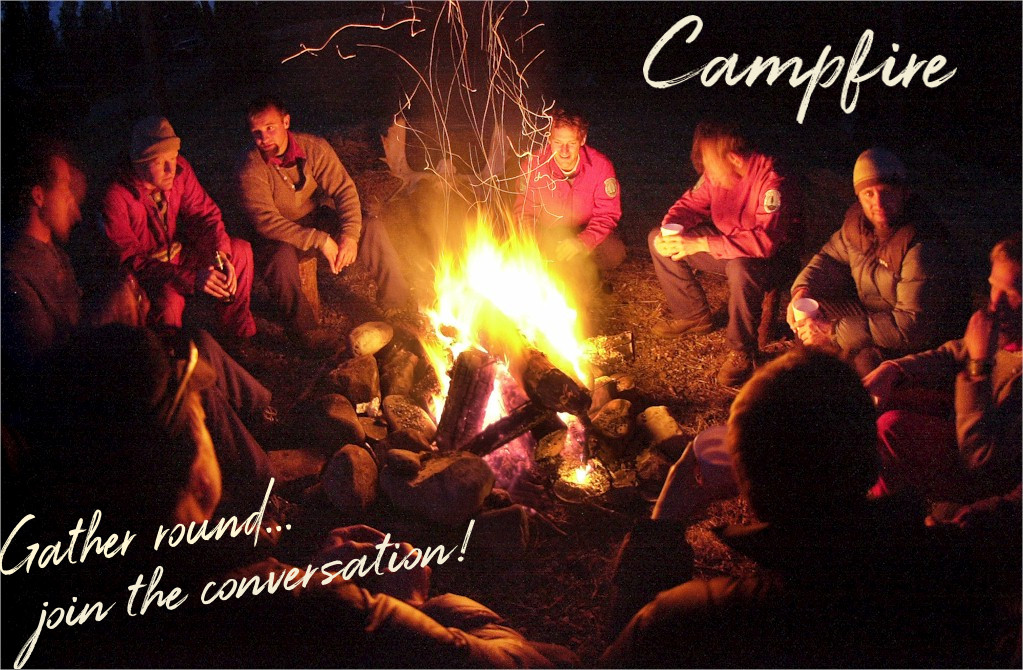
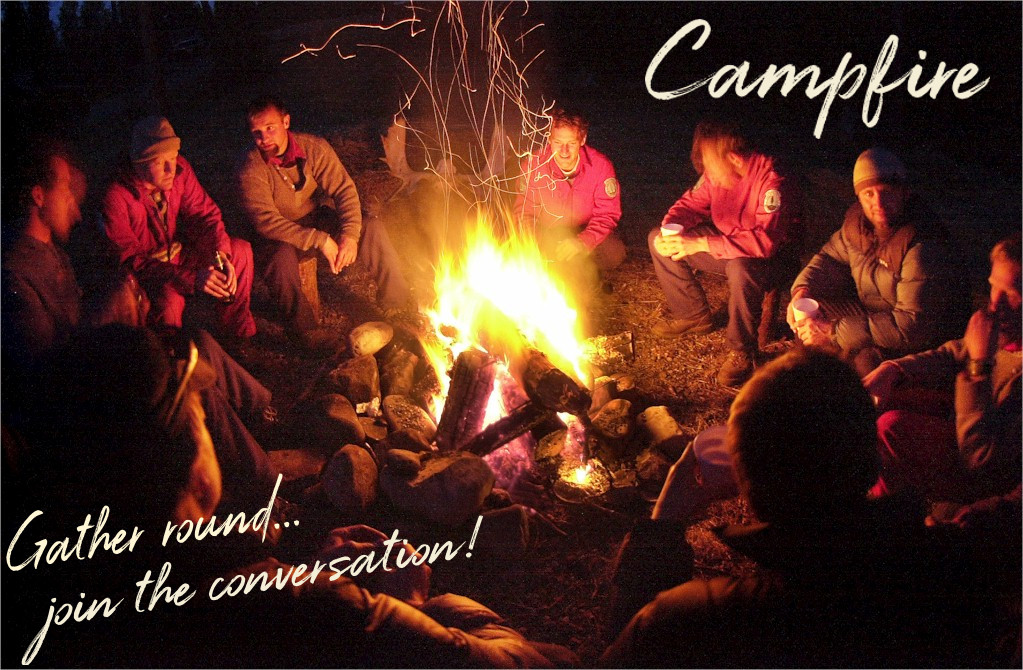
correct home page images and text; build campfire table

Changed region(s): [[0.0, 0.7164, 0.4848, 1.0], [0.6061, 0.0, 0.9697, 0.209]]

diff --git a/MountainBound/wwwroot/CSS/SiteStyles.css b/MountainBound/wwwroot/CSS/SiteStyles.css
@@ -1,22 +1,25 @@
 body {
-      background: url("/images/mountainrange1.jpg") no-repeat top #eee;
-      background-size: cover;
-      height: 100%;
-    background-attachment:fixed;
-              
-
-          }
+    background: url("/images/mountainrange1.jpg") no-repeat top #eee;
+    background-size: cover;
+    height: 100%;
+    background-attachment: fixed;
+    font-family: 'Roboto', sans-serif;
+}
 .content {
     width: 70%;
     position: relative;
-    min-height: 90vh;
+    min-height: 86vh;
     background-color: #fff;
-    margin: -2% auto 0 auto;
-    z-index: -1;
+    margin: 0 auto 0 auto;
+    z-index: 0;
     padding: 4% 2% .5em 2%;
     
 }
+button {
+    background: #f29a15;
+}
 
+/*TRAILHEAD*/
 #parkname {
     font-size: 16px;
     text-wrap: none;
@@ -27,7 +30,7 @@
 
 
 
-
+/*TRADEPOST*/
 .tradepost {
     background: #000000;
     width: 300px;
@@ -47,7 +50,7 @@
 
 
 .card-deck {
-    margin-top: 150px
+    margin-top: 75px
 }
 
 .card-img-top {
@@ -56,11 +59,11 @@
 }
 
 .navvc {
-    margin-top: 50px
+    margin-top: 40px
 }
 
 .categories {
-    margin-top: 100px
+    margin-top: 75px
 }
 
 .mid {
@@ -72,6 +75,13 @@
     text-wrap: none;
 }
 
-button {
-    background: #f29a15;
+/*CAMPFIRE*/
+
+.campfire-tbl > thead {
+    background: #2b2a1d;
+    color: #fff6d5;
+}
+
+.campfire-tbl {
+    color:#f29a15
 }

diff --git a/MountainBound/wwwroot/CSS/NavStyles.css b/MountainBound/wwwroot/CSS/NavStyles.css
@@ -20,7 +20,7 @@ body {
     display: inline-block;
     font-size: 1em;
     text-transform: uppercase;
-    letter-spacing: 1px;
+
     }
 ul{padding:0}
 

diff --git a/MountainBound/Areas/Campfire/Models/Topic.cs b/MountainBound/Areas/Campfire/Models/Topic.cs
@@ -9,6 +9,7 @@ namespace MountainBound.Areas.Campfire.Models
     {
         public int TopicId { get; set; }
         public string Heading { get; set; }
+        
         public List<Message> Messages { get; set; } = new List<Message>();
         public DateTime CreatedAt { get; set; } = DateTime.Now;
         public DateTime UpdatedAt { get; set; } = DateTime.Now;
